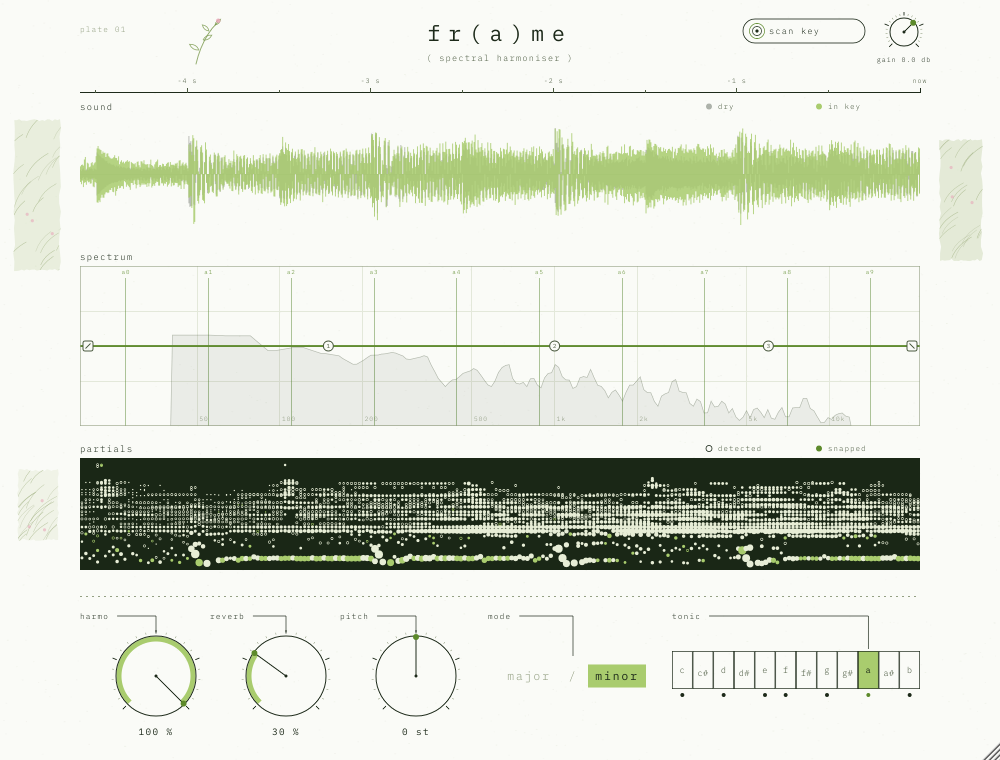
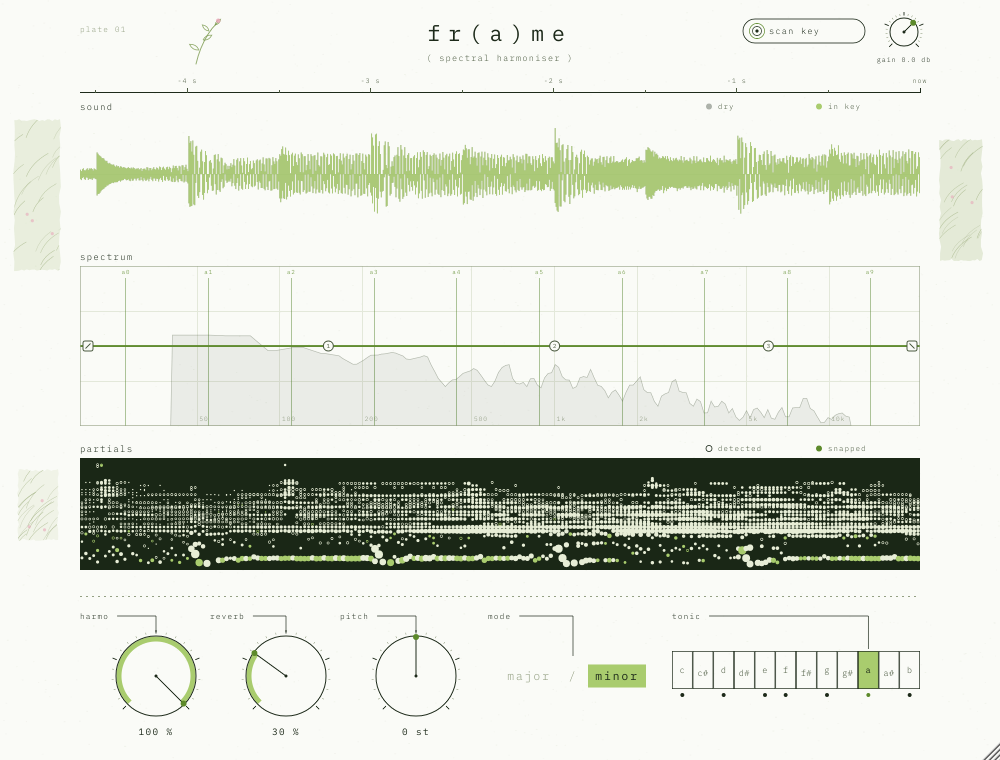
3.2.1 : effet inactif (son d'origine à l'identique) tant que le scan n'est pas terminé ou passé ; bouton skip scan mis en valeur
Claude-Session: https://claude.ai/code/session_01BthVUY6Bak1JTWBvTbc3au

Changed region(s): [[0.062, 0.1816, 0.93, 0.2724]]

diff --git a/Source/PluginProcessor.cpp b/Source/PluginProcessor.cpp
@@ -158,7 +158,7 @@ void FrameAudioProcessor::prepareToPlay (double sampleRate, int samplesPerBlock)
     keyDetector.prepare (sampleRate);                  // SCAN : analyse de l'entrée (seulement pendant un scan)
     holdIn  = 1.0f - std::exp (-1.0f / (0.03f * (float) sampleRate));   // vers le son d'origine : 30 ms
     holdOut = 1.0f - std::exp (-1.0f / (0.15f * (float) sampleRate));   // retour de l'effet : 150 ms
-    holdSmoothed = scanHold.load() ? 1.0f : 0.0f;
+    holdSmoothed = (scanHold.load() || ! keyReady.load()) ? 1.0f : 0.0f;
     proEq.prepare (sampleRate);
     outBuffer.setSize (2, maxChunk, false, true, false);
 
@@ -395,15 +395,20 @@ void FrameAudioProcessor::processChunk (juce::AudioBuffer<float>& buffer, int st
         limiterGain = needed < limiterGain ? needed : limiterGain + (1.0f - limiterGain) * limiterRelease;
         if (! std::isfinite (limiterGain)) limiterGain = 1.0f;
 
-        // SCAN : pendant l'écoute, on n'entend que le son d'origine (brut).
-        const float holdTarget = scanHold.load (std::memory_order_relaxed) ? 1.0f : 0.0f;
+        // SCAN : pendant l'écoute, et tant qu'aucun scan n'est terminé, on
+        // n'entend que le son d'origine (brut).
+        const float holdTarget = (scanHold.load (std::memory_order_relaxed)
+                                  || ! keyReady.load (std::memory_order_relaxed)) ? 1.0f : 0.0f;
         holdSmoothed += (holdTarget - holdSmoothed) * (holdTarget > holdSmoothed ? holdIn : holdOut);
         if (holdSmoothed < 1.0e-5f) holdSmoothed = 0.0f;
+        if (holdSmoothed > 0.99999f) holdSmoothed = 1.0f;
 
         for (int c = 0; c < numChannels; ++c)
         {
             float y = safetyLimit (outBuffer.getSample (c, i) * limiterGain, invalid);
-            if (holdSmoothed > 0.0f)
+            if (holdSmoothed >= 1.0f)
+                y = dryBuffer.getSample (c, i);                     // son d'origine, à l'identique
+            else if (holdSmoothed > 0.0f)
                 y += holdSmoothed * (dryBuffer.getSample (c, i) - y);
             buffer.setSample (c, startSample + i, y);
             outLo = juce::jmin (outLo, y); outHi = juce::jmax (outHi, y);
@@ -454,6 +459,12 @@ void FrameAudioProcessor::setIntroDone (bool d)
     apvts.state.setProperty ("introDone", d, nullptr);
 }
 
+void FrameAudioProcessor::setKeyReady (bool r)
+{
+    keyReady.store (r);
+    apvts.state.setProperty ("keyReady", r, nullptr);
+}
+
 void FrameAudioProcessor::startScan()
 {
     scanHold.store (true);
@@ -473,6 +484,7 @@ void FrameAudioProcessor::applyDetectedKey (int tonic, int mode)
     // Fil interface : tonique et mode réglés comme si on cliquait (geste complet,
     // l'hôte enregistre le changement et l'automation reste cohérente).
     if (tonic < 0 || tonic > 11) return;
+    setKeyReady (true);                     // premier scan terminé : l'effet s'active
     if (auto* p = apvts.getParameter (ParamIDs::note))
     {
         p->beginChangeGesture();
@@ -504,7 +516,13 @@ void FrameAudioProcessor::setStateInformation (const void* data, int sizeInBytes
 {
     if (auto xml = getXmlFromBinary (data, sizeInBytes))
         if (xml->hasTagName (apvts.state.getType()))
+        {
             apvts.replaceState (juce::ValueTree::fromXml (*xml));
+            // Projets d'avant 3.2 (sans « keyReady ») : l'effet reste actif comme avant.
+            const auto& st = apvts.state;
+            keyReady.store (st.hasProperty ("keyReady") ? (bool) st.getProperty ("keyReady")
+                                                        : (bool) st.getProperty ("introDone", false));
+        }
 }
 
 //==============================================================================

diff --git a/Source/ScanPage.cpp b/Source/ScanPage.cpp
@@ -32,6 +32,7 @@ juce::Rectangle<float> ScanPage::buttonBounds() const noexcept
 juce::Rectangle<float> ScanPage::altBounds (int i) const noexcept { return { pageW * 0.5f - 190.0f + 200.0f * (float) i, 556.0f, 170.0f, 28.0f }; }
 juce::Rectangle<float> ScanPage::rescanBounds() const noexcept   { return { pageW * 0.5f - 190.0f, 600.0f, 170.0f, 34.0f }; }
 juce::Rectangle<float> ScanPage::continueBounds() const noexcept { return { pageW * 0.5f + 20.0f, 600.0f, 170.0f, 34.0f }; }
+juce::Rectangle<float> ScanPage::skipBounds() const noexcept     { return { pageW * 0.5f - 95.0f, 640.0f, 190.0f, 38.0f }; }
 
 void ScanPage::open()
 {
@@ -49,6 +50,7 @@ void ScanPage::close()
     if (processor.isScanHolding() || processor.getKeyDetector().isScanning())
         processor.cancelScan();                     // l'effet revient
     processor.setIntroDone (true);
+    processor.setKeyReady (true);                   // scan terminé ou « skip scan » : l'effet s'active
     setVisible (false);
     if (onClose) onClose();
 }
@@ -97,8 +99,10 @@ void ScanPage::mouseMove (const juce::MouseEvent& e)
     const bool over = buttonBounds().contains (e.position)
                    || (state == State::done && (rescanBounds().contains (e.position) || continueBounds().contains (e.position)
                                                 || altBounds (0).contains (e.position) || altBounds (1).contains (e.position)))
-                   || juce::Rectangle<float> (pageW * 0.5f - 60.0f, 680.0f, 120.0f, 26.0f).contains (e.position);
+                   || (state != State::done && skipBounds().contains (e.position));
     setMouseCursor (over ? juce::MouseCursor::PointingHandCursor : juce::MouseCursor::NormalCursor);
+    const bool hs = state != State::done && skipBounds().contains (e.position);
+    if (hs != hoverSkip) { hoverSkip = hs; repaint (skipBounds().expanded (4.0f).toNearestInt()); }
     const bool hb = buttonBounds().contains (e.position);
     if (hb != hoverButton) { hoverButton = hb; repaint(); }
 }
@@ -150,7 +154,7 @@ void ScanPage::mouseUp (const juce::MouseEvent& e)
     }
 
     // « skip » : entrer sans scanner.
-    if (juce::Rectangle<float> (pageW * 0.5f - 60.0f, 680.0f, 120.0f, 26.0f).contains (pos))
+    if (skipBounds().contains (pos))
         close();
 }
 
@@ -272,6 +276,15 @@ void ScanPage::paint (juce::Graphics& g)
     }
     else
     {
-        drawMonoText (g, "skip  >", { pageW * 0.5f - 60.0f, 680.0f, 120.0f, 26.0f }, 11.0f, J::centred, Palette::graphite);
+        // « skip scan » : bien visible ; entre dans la planche, effet actif.
+        const auto sb = skipBounds();
+        g.setColour (hoverSkip ? Palette::accent : Palette::accent.withAlpha (0.35f));
+        g.fillRoundedRectangle (sb, sb.getHeight() * 0.5f);
+        g.setColour (Palette::ink);
+        g.drawRoundedRectangle (sb, sb.getHeight() * 0.5f, 1.1f);
+        drawMonoText (g, "skip scan  >", sb, 13.0f, J::centred, Palette::ink, true, 0.08f);
+        if (! processor.isKeyReady())
+            drawMonoText (g, "until then, fr(a)me lets your raw sound through",
+                          { 0.0f, sb.getBottom() + 12.0f, pageW, 14.0f }, 10.0f, J::centred, Palette::graphite);
     }
 }

diff --git a/Source/PluginProcessor.h b/Source/PluginProcessor.h
@@ -96,6 +96,11 @@ public:
     /** Applique la tonalité trouvée puis rend l'effet (fondu). */
     void applyDetectedKey (int tonic, int mode);
     bool isScanHolding() const noexcept { return scanHold.load(); }
+    /** 3.2 : l'effet ne s'active qu'une fois une tonalité trouvée par un scan
+        terminé. Avant : la sortie est le son d'origine, tel quel (0 latence).
+        Sauvegardé avec le projet. */
+    bool isKeyReady() const noexcept { return keyReady.load(); }
+    void setKeyReady (bool);
     /** Page d'accueil (scan) déjà passée pour cette instance (sauvegardé avec le projet). */
     bool isIntroDone() const;
     void setIntroDone (bool);
@@ -124,6 +129,7 @@ private:
     AmbientReverb reverb;                 // avant l'harmonie : la queue est harmonisée elle aussi
     KeyDetector keyDetector;              // SCAN : tonalité de la mélodie jouée
     std::atomic<bool> scanHold { false }; // pendant un scan : sortie = son d'origine
+    std::atomic<bool> keyReady { false }; // aucun scan terminé : sortie = son d'origine
     float holdSmoothed = 0.0f, holdIn = 0.01f, holdOut = 0.001f;
     PartialSnapper snapper;               // recalage des partiels tenus sur la gamme (0 latence)
     ZeroLatencyHarmonizer harmonizer;     // traitement harmonique, 0 latence

diff --git a/Source/ScanPage.h b/Source/ScanPage.h
@@ -11,6 +11,8 @@
       • repos      : « appuyez sur scan, puis jouez votre mélodie »
       • écoute     : anneau de progression (~8 s de son joué), tonalité en
                      direct ; un clic sur le bouton arrête et garde le résultat
+      • (3.2) tant qu'aucun scan n'est terminé (ou passé avec « skip scan »),
+                     fr(a)me laisse passer le son d'origine, sans effet
       • terminé    : la tonalité trouvée, appliquée ; « rescan » ou ouverture
                      automatique de la planche après 5 s ; deux autres tonalités
                      proposées en un clic
@@ -47,6 +49,7 @@ private:
     juce::Rectangle<float> buttonBounds() const noexcept;
     juce::Rectangle<float> rescanBounds() const noexcept;
     juce::Rectangle<float> continueBounds() const noexcept;
+    juce::Rectangle<float> skipBounds() const noexcept;
     void close();
     void finish();
 
@@ -57,5 +60,5 @@ private:
     int altTonic[2] { -1, -1 }, altMode[2] { 0, 0 };     // deux autres tonalités proposées
     juce::Rectangle<float> altBounds (int i) const noexcept;
     int listeningTicks = 0, doneTicks = 0;
-    bool hoverButton = false;
+    bool hoverButton = false, hoverSkip = false;
 };

diff --git a/README.md b/README.md
@@ -407,7 +407,12 @@ rappels sur les bandes, scan key monté à côté du gain.
 
 À l'ouverture d'une nouvelle instance, la **page de scan** s'affiche : gros bouton « scan »,
 on joue la mélodie dans le DAW, la tonalité est trouvée et appliquée, puis la planche
-s'ouvre (« skip » pour entrer directement).
+s'ouvre (bouton **skip scan** pour entrer directement).
+
+3.2.1 : **tant que le scan n'est pas lancé et terminé (ou passé avec skip scan), fr(a)me
+laisse passer le son d'origine à l'identique**, sans effet ni décalage ; l'effet arrive en
+fondu de 150 ms avec la tonalité trouvée. L'état est sauvegardé avec le projet (les projets
+d'avant 3.2.1 restent actifs comme avant).
 
 Les bandes partagent le même axe temporel (~9 s, « now » à droite).
 
